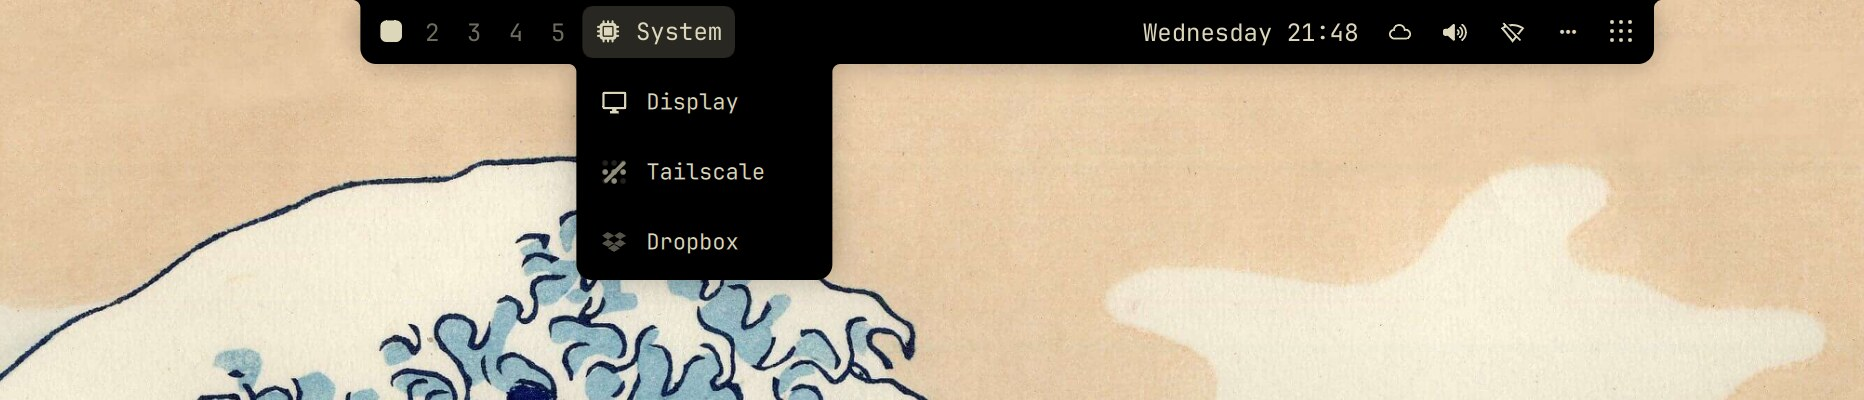
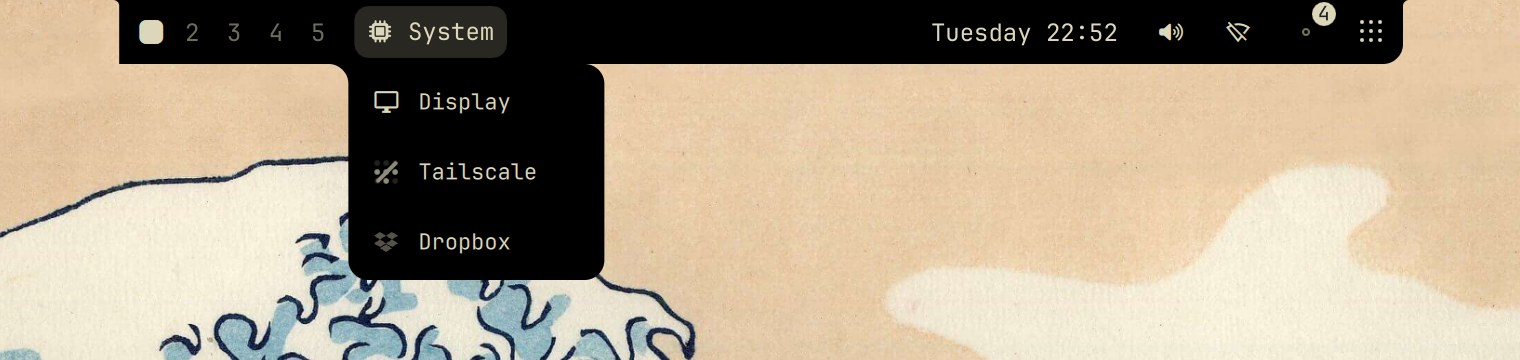
README: new hero and gallery for the current look
The hero is a card in the style the user picked: words and features on
the left, the bar with a shelf open in front of the Preferences Layout
page on the right. The gallery is retaken: shelf, menu with a submenu,
keyboard search, notch, and the Layout and Look pages. render.sh loses
its --wall mode, which only made the old nord hero's wallpaper.

diff --git a/tools/showcase/card.html b/tools/showcase/card.html
@@ -1,61 +1,165 @@
 <!doctype html>
 <!-- Powerbar's README hero and plugin preview, rendered by render.sh (headless
-     Chromium, 1200x675 at 2x: 16:9, the marketplace's card shape). A field
-     drawn from the nord theme's own colours holds one untouched capture,
-     screenshots/hero-nord.jpg: a 1920x1080 box at scale 2.5 whose background
-     is this same field (render.sh --wall), so the desktop continues it.
-     Everything that matters stays inside the screen; card crops between
-     about 1.5:1 and 2.4:1 only take field. -->
+     Chromium, 1200x675 at 2x: 16:9, the marketplace's card shape). Words on
+     the left, two untouched captures on the right: screenshots/hero-prefs.jpg
+     (Preferences, Layout page, catppuccin-latte) tilted behind
+     screenshots/hero-bar.jpg (the bar on tokyo-night with the right zone's
+     shelf open). Catalogue cards crop the picture to between about 1.5:1 and
+     2.4:1, so what matters stays inside 95..1105 x 88..588. -->
 <html lang="en">
 <head>
 <meta charset="utf-8">
 <title>Powerbar card</title>
 <style>
   :root {
-    --background: #2e3440;
-    --darker: #191c23;
-    --accent: #81a1c1;
-    --cyan: #88c0d0;
-    --magenta: #b48ead;
-    --ink: #2e3440;
-    --ink-soft: #3b4252;
-    --sans: "Adwaita Sans", "Inter", system-ui, sans-serif;
+    --night: #0c0d18;
+    --violet: #8b7cf6;
+    --lilac: #c9bcff;
+    --teal: #4fd1c5;
+    --lime: #b5e86b;
+    --amber: #f2b15b;
+    --ink: #eceaf6;
+    --ink-soft: #9a98b3;
+    --mono: "JetBrainsMono Nerd Font", "JetBrains Mono", monospace;
   }
   * { box-sizing: border-box; margin: 0 }
-  html, body { width: 1200px; height: 675px; overflow: hidden; background: var(--accent) }
-  body { position: relative; font-family: var(--sans); color: var(--ink) }
+  html, body { width: 1200px; height: 675px; overflow: hidden; background: var(--night) }
+  body { position: relative; font-family: var(--mono); color: var(--ink) }
+
   .field {
     position: absolute; inset: 0;
     background:
-      radial-gradient(ellipse 55% 65% at 84% 96%, color-mix(in srgb, var(--magenta) 70%, transparent), transparent 70%),
-      radial-gradient(ellipse 60% 70% at 10% 0%, color-mix(in srgb, var(--cyan) 85%, transparent), transparent 72%),
-      linear-gradient(150deg, var(--cyan) 0%, var(--accent) 48%, color-mix(in srgb, var(--accent) 70%, var(--background)) 100%);
+      radial-gradient(ellipse 48% 60% at 6% 4%, rgba(118, 94, 230, 0.42), transparent 70%),
+      radial-gradient(ellipse 45% 55% at 96% 98%, rgba(48, 170, 170, 0.30), transparent 70%),
+      radial-gradient(ellipse 40% 45% at 72% 30%, rgba(118, 94, 230, 0.16), transparent 70%),
+      var(--night);
   }
-  /* The box's screen: 880x495 at 160,90 (render.sh --wall crops this
-     rectangle as the box background). */
-  .screen {
-    position: absolute; left: 160px; top: 90px; width: 880px; height: 495px;
-    border-radius: 14px; overflow: hidden;
-    box-shadow: 0 0 0 1px color-mix(in srgb, var(--darker) 30%, transparent),
-                0 24px 60px -18px color-mix(in srgb, var(--darker) 55%, transparent);
+  .grid {
+    position: absolute; inset: 0; opacity: 0.5;
+    background-image:
+      linear-gradient(rgba(255, 255, 255, 0.035) 1px, transparent 1px),
+      linear-gradient(90deg, rgba(255, 255, 255, 0.035) 1px, transparent 1px);
+    background-size: 32px 32px;
+    mask-image: radial-gradient(ellipse 80% 80% at 50% 45%, black 30%, transparent 80%);
   }
-  .shot { display: block; width: 100%; height: 100% }
-  .words {
-    position: absolute; left: 600px; top: 383px; width: 600px;
-    transform: translate(-50%, -50%); text-align: center;
+  .trails { position: absolute; left: 0; top: 0; width: 1200px; height: 675px }
+
+  .words { position: absolute; left: 100px; top: 96px; width: 540px }
+  .brand { display: flex; align-items: center; gap: 22px }
+  .tile {
+    width: 74px; height: 74px; border-radius: 18px; flex: none;
+    display: grid; place-items: center;
+    background: linear-gradient(160deg, rgba(139, 124, 246, 0.38), rgba(60, 50, 140, 0.25));
+    box-shadow: inset 0 0 0 1.5px rgba(201, 188, 255, 0.55), 0 0 34px rgba(139, 124, 246, 0.35);
   }
-  h1 { font-size: 72px; font-weight: 700; letter-spacing: -0.03em; line-height: 1 }
-  p { margin-top: 14px; font-size: 19px; font-weight: 500; line-height: 1.32; text-wrap: balance; color: var(--ink-soft) }
-  body.wall .screen, body.wall .words { display: none }
+  h1 {
+    font-size: 86px; font-weight: 700; letter-spacing: -0.04em; line-height: 1;
+    background: linear-gradient(100deg, #ffffff 10%, var(--lilac) 70%, #a99bff);
+    -webkit-background-clip: text; background-clip: text; color: transparent;
+  }
+  .tagline { margin-top: 26px; font-size: 27px; font-weight: 700; letter-spacing: -0.01em }
+  .tagline em { font-style: normal; color: var(--violet) }
+  .sub { margin-top: 10px; font-size: 14.5px; color: var(--ink-soft) }
+
+  .features { margin-top: 30px; display: grid; gap: 13px }
+  .feature { display: flex; align-items: center; gap: 15px; font-size: 16.5px }
+  .badge {
+    width: 34px; height: 34px; border-radius: 9px; flex: none; display: grid; place-items: center;
+    background: color-mix(in srgb, var(--c) 14%, transparent);
+    box-shadow: inset 0 0 0 1px color-mix(in srgb, var(--c) 45%, transparent);
+  }
+  .badge svg { width: 18px; height: 18px; stroke: var(--c); fill: none; stroke-width: 1.8; stroke-linecap: round; stroke-linejoin: round }
+
+  .install {
+    position: absolute; left: 100px; top: 532px;
+    padding: 12px 20px; border-radius: 12px; font-size: 14px;
+    background: rgba(255, 255, 255, 0.035);
+    box-shadow: inset 0 0 0 1px rgba(255, 255, 255, 0.09);
+    color: var(--ink);
+  }
+  .install .prompt { color: var(--lime); margin-right: 10px }
+  .install .url { color: #a3b4ff }
+
+  .shot { position: absolute; display: block; border-radius: 12px; overflow: hidden }
+  .shot img { display: block; width: 100%; height: 100% }
+  .prefs {
+    left: 612px; top: 150px; width: 500px; height: 234px;
+    transform: perspective(1400px) rotateY(-16deg) rotateZ(-3deg);
+    transform-origin: right center;
+    box-shadow: 0 30px 70px -20px rgba(0, 0, 0, 0.7), 0 0 0 1px rgba(255, 255, 255, 0.10);
+    opacity: 0.94;
+  }
+  .bar {
+    left: 600px; top: 424px; width: 500px; height: 71px;
+    box-shadow: 0 0 0 1.5px rgba(139, 124, 246, 0.75), 0 0 40px rgba(139, 124, 246, 0.35),
+                0 30px 80px -20px rgba(0, 0, 0, 0.8);
+  }
+  .label {
+    position: absolute; font-size: 11px; letter-spacing: 0.14em; color: var(--ink-soft);
+  }
 </style>
 </head>
 <body>
   <div class="field"></div>
-  <div class="screen"><img class="shot" src="../../screenshots/hero-nord.jpg" alt=""></div>
+  <div class="grid"></div>
+  <svg class="trails" viewBox="0 0 1200 675" aria-hidden="true">
+    <defs>
+      <filter id="glow" x="-10%" y="-50%" width="120%" height="200%"><feGaussianBlur stdDeviation="3"/></filter>
+      <linearGradient id="fade" x1="0" x2="1">
+        <stop offset="0" stop-color="white" stop-opacity="0"/><stop offset="0.25" stop-color="white"/>
+        <stop offset="0.8" stop-color="white"/><stop offset="1" stop-color="white" stop-opacity="0"/>
+      </linearGradient>
+      <mask id="ends"><rect width="1200" height="675" fill="url(#fade)"/></mask>
+    </defs>
+    <g mask="url(#ends)" fill="none" stroke-linecap="round">
+      <g filter="url(#glow)" opacity="0.7">
+        <path d="M0 620 C 220 560, 380 650, 600 600 S 960 540, 1200 590" stroke="#4fd1c5" stroke-width="4"/>
+        <path d="M0 640 C 260 600, 420 560, 640 615 S 980 650, 1200 600" stroke="#8b7cf6" stroke-width="4"/>
+      </g>
+      <path d="M0 620 C 220 560, 380 650, 600 600 S 960 540, 1200 590" stroke="#7fe3d9" stroke-width="1.4"/>
+      <path d="M0 640 C 260 600, 420 560, 640 615 S 980 650, 1200 600" stroke="#b9afff" stroke-width="1.4"/>
+      <path d="M0 652 C 300 630, 500 610, 760 640 S 1040 620, 1200 632" stroke="#b5e86b" stroke-width="1" opacity="0.6"/>
+    </g>
+  </svg>
+
   <div class="words">
-    <h1>Powerbar</h1>
-    <p>A replacement bar for Omarchy with drawers, in-bar expansion, notch support, configurable visibility, a sophisticated keyboard mode, autohide and a polished Preferences window.</p>
+    <div class="brand">
+      <div class="tile">
+        <!-- A bar with a shelf hanging from its middle. -->
+        <svg width="46" height="46" viewBox="0 0 46 46" aria-hidden="true">
+          <defs><linearGradient id="mark" x1="0" y1="0" x2="1" y2="1"><stop offset="0" stop-color="#ffffff"/><stop offset="1" stop-color="#c9bcff"/></linearGradient></defs>
+          <path fill="url(#mark)" d="M9.5 12 H36.5 A4.5 4.5 0 0 1 36.5 21 H34.5 A3.5 3.5 0 0 0 31 24.5 V29 A4 4 0 0 1 27 33 H19 A4 4 0 0 1 15 29 V24.5 A3.5 3.5 0 0 0 11.5 21 H9.5 A4.5 4.5 0 0 1 9.5 12 Z"/>
+          <g fill="#3b2f8a"><circle cx="10.5" cy="16.5" r="1.5"/><circle cx="15" cy="16.5" r="1.5"/><circle cx="35.5" cy="16.5" r="1.5"/>
+          <circle cx="19.5" cy="27.5" r="1.5" opacity="0.7"/><circle cx="23" cy="27.5" r="1.5" opacity="0.7"/><circle cx="26.5" cy="27.5" r="1.5" opacity="0.7"/></g>
+        </svg>
+      </div>
+      <h1>Powerbar</h1>
+    </div>
+    <p class="tagline"><em>Omarchy's</em> bar, rebuilt.</p>
+    <p class="sub">Looks like the bar you have, until you ask for more.</p>
+    <div class="features">
+      <div class="feature" style="--c: var(--teal)">
+        <span class="badge"><svg viewBox="0 0 24 24"><rect x="3" y="4" width="18" height="5" rx="1.5"/><path d="M12 9v6a2 2 0 0 0 2 2h5a2 2 0 0 0 2-2V9"/></svg></span>
+        Drawers, shelves and menus for the rest
+      </div>
+      <div class="feature" style="--c: var(--violet)">
+        <span class="badge"><svg viewBox="0 0 24 24"><rect x="3" y="6" width="18" height="12" rx="2"/><path d="M7 10h1M11 10h1M15 10h2M7 14h10"/></svg></span>
+        Walk, search and drag it by keyboard
+      </div>
+      <div class="feature" style="--c: var(--lime)">
+        <span class="badge"><svg viewBox="0 0 24 24"><path d="M3 5h6c0 2 1.5 3 3 3s3-1 3-3h6"/><rect x="3" y="12" width="7" height="5" rx="1.5"/><rect x="14" y="12" width="7" height="5" rx="1.5"/></svg></span>
+        Islands, floating, flat, or round the notch
+      </div>
+      <div class="feature" style="--c: var(--amber)">
+        <span class="badge"><svg viewBox="0 0 24 24"><path d="M4 7l8-3 8 3-8 3z"/><path d="M4 12l8 3 8-3"/><path d="M4 17l8 3 8-3"/></svg></span>
+        Preferences that lay out your whole bar
+      </div>
+    </div>
   </div>
-  <script>if (location.hash === "#wall") document.body.classList.add("wall")</script>
+
+  <div class="install"><span class="prompt">$</span>omarchy plugin add <span class="url">github.com/overp0werj0int/powerbar</span></div>
+
+  <div class="shot prefs"><img src="../../screenshots/hero-prefs.jpg" alt=""></div>
+  <div class="shot bar"><img src="../../screenshots/hero-bar.jpg" alt=""></div>
 </body>
 </html>

diff --git a/tools/showcase/seed.py b/tools/showcase/seed.py
@@ -1,7 +1,8 @@
 #!/usr/bin/env python3
 # seed.py SHELL_JSON [KEY=JSON ...]: the showcase bar for README captures, of
 # stock Omarchy widgets only (a box shows other plugins as placeholders, and
-# the captures stay free of anyone's own setup). KEY=JSON sets bar keys.
+# the captures stay free of anyone's own setup), in today's five zones (left,
+# centerBegin, center, centerEnd, right). KEY=JSON sets bar keys.
 import json, os, sys
 p = sys.argv[1]; cfg = json.load(open(p)); bar = cfg.setdefault('bar', {})
 n = [0]
@@ -12,20 +13,25 @@ def w(i, vis=None):
 left = [w('omarchy.workspaces'), w('omarchy.monitor'), w('omarchy.tailscale'), w('omarchy.dropbox'),
         w('omarchy.system-update'), w('omarchy.indicators')]
 center = [w('omarchy.clock')]
-right = [w('omarchy.weather'), w('omarchy.elsewhen', 'managed'), w('omarchy.media', 'managed'), w('omarchy.tray', 'managed'),
-         w('omarchy.wifiqr', 'managed'), w('omarchy.speedtest', 'managed'),
-         w('omarchy.audio'), w('omarchy.microphone'), w('omarchy.bluetooth'), w('omarchy.network'), w('omarchy.keyboard-layout'), w('omarchy.power')]
-I = {e['id']: e['powerbarInstance'] for e in left + center + right}
-bar['layout'] = {'left': left, 'center': center, 'right': right}
+centerEnd = [w('omarchy.weather')]
+right = [w('omarchy.elsewhen', 'managed'), w('omarchy.media', 'managed'), w('omarchy.tray', 'managed'),
+         w('omarchy.agents', 'managed'), w('omarchy.bluetooth', 'managed'), w('omarchy.keyboard-layout', 'managed'),
+         w('omarchy.audio'), w('omarchy.microphone'), w('omarchy.network'), w('omarchy.power')]
+I = {e['id']: e['powerbarInstance'] for e in left + center + centerEnd + right}
+bar['layout'] = {'left': left, 'centerBegin': [], 'center': center, 'centerEnd': centerEnd, 'right': right}
 bar['powerbarGroups'] = [
  {'id': 'g-show-system', 'label': 'System', 'icon': '', 'section': 'left', 'before': I['omarchy.system-update'], 'visibility': 'shown',
   'face': 'both', 'tooltip': False, 'badge': True, 'badgeMode': 'sum', 'memberDisplay': 'both',
   'items': [I['omarchy.monitor'], I['omarchy.tailscale'], I['omarchy.dropbox']]},
- {'id': 'g-show-audio', 'label': 'Audio', 'icon': '', 'section': 'right', 'before': I['omarchy.bluetooth'], 'visibility': 'shown',
+ {'id': 'g-show-audio', 'label': 'Audio', 'icon': '', 'section': 'right', 'before': I['omarchy.network'], 'visibility': 'shown',
   'face': 'icon', 'badge': True, 'badgeMode': 'sum', 'memberDisplay': 'native',
-  'items': [I['omarchy.audio'], I['omarchy.microphone']]}]
-bar.update({'id': 'p0werj0int.powerbar', 'position': 'top', 'centerAnchor': 'omarchy.clock', 'powerbarAutoHide': False,
-            'powerbarStyle': 'islands', 'powerbarLargeBar': True, 'powerbarOnDemand': 'drawer', 'powerbarZones': 'three'})
+  'items': [I['omarchy.audio'], I['omarchy.microphone']]},
+ {'id': 'g-show-extras', 'label': 'Extras', 'icon': '\uf12e', 'section': 'right', 'before': I['omarchy.audio'], 'visibility': 'managed',
+  'face': 'glyph', 'badge': False, 'memberDisplay': 'both',
+  'items': [I['omarchy.agents'], I['omarchy.bluetooth'], I['omarchy.keyboard-layout']]}]
+for k in ('centerAnchor', 'powerbarZones', 'powerbarFiveZones', 'powerbarZoneLayouts'): bar.pop(k, None)
+bar.update({'id': 'p0werj0int.powerbar', 'position': 'top', 'powerbarAutoHide': False,
+            'powerbarStyle': 'islands', 'powerbarLargeBar': True, 'powerbarOnDemand': 'drawer'})
 for kv in sys.argv[2:]:
     k, v = kv.split('=', 1)
     try: v = json.loads(v)

diff --git a/DEVELOPMENT.md b/DEVELOPMENT.md
@@ -119,33 +119,57 @@ omabox for desktop tests in a private Hyprland session
 `screenshots/` holds the README gallery, real captures only. `preview.jpg`
 (the README hero and the plugin's preview) is `tools/showcase/card.html`
 rendered by `tools/showcase/render.sh` (headless Chromium, 1200x675 at 2x:
-16:9, the marketplace card's shape). The page is a gradient of the nord
-theme's own colours with one capture laid in as a screen,
-`screenshots/hero-nord.jpg`: a 1920x1080 box at scale 2.5 on nord, a layout
-of stock Omarchy widgets, keyboard mode inside the System group (keysOn,
-Left, Down, Down). The box's background is the same gradient under the
-screen, from `render.sh --wall OUT.png` and `omarchy-theme-bg-set`. Keep
-what matters inside the screen: catalogue cards crop the picture to between
-about 1.5:1 and 2.4:1, which takes only gradient. Re-run render.sh after
-replacing the capture.
+16:9, the marketplace card's shape). The card is words on the left and two
+untouched captures on the right, both from one box set up like the gallery
+below with `powerbarOnDemand` "shelf", `powerbarStyle` "islands",
+`shape.rounding 12`, `shape.scope all` and `tuning false`:
 
-The gallery shots are wide, readable captures from one omabox box
-(`omabox up gal --theme NAME --env POWERBAR_DISPLAY_CUTOUTS=/home/sbx/cutouts.json`),
-with the plugin copied into the box HOME, `omarchy bar use p0werj0int.powerbar`
-and `tools/showcase/seed.py` writing a bar of stock widgets. Set the screen
-per shot with `omabox -b gal hyprctl eval 'hl.monitor({ output = "HEADLESS-2",
-mode = "2400x275@60", position = "0x0", scale = 2.5 })'`; do that again after a
-`omarchy-theme-set`, which resets it. Keep shots wide (the key strip needs
-about 240 logical px of height) and only Preferences tall:
+- `screenshots/hero-bar.jpg`: tokyo-night over a plain violet-to-teal
+  gradient (`magick -size 2400x1500 gradient:'#5b4fa8'-'#2f7f8f'`, then
+  `omarchy-theme-bg-set`, so the islands stand out), a 1700x600 screen at
+  scale 2.5, `managed right` for the shelf, cropped to the top 1700x240.
+- `screenshots/hero-prefs.jpg`: catppuccin-latte, a 2560x1600 screen at
+  scale 2, `preferencesPage 1`, cropped to 2560x1200+0+74.
+
+Keep what matters inside 95..1105 x 88..588 of the page: catalogue cards
+crop the picture to between about 1.5:1 and 2.4:1. Re-run render.sh after
+replacing a capture.
+
+The gallery shots are wide, readable captures from one omabox box:
+`omabox up gal --stock-bar --theme NAME --env POWERBAR_DISPLAY_CUTOUTS=/home/sbx/cutouts.json`
+(`--stock-bar`, or the box starts from your own bar and its settings), the
+plugin copied into the box HOME (rsync as `tools/box/box.sh` does),
+`omarchy bar use p0werj0int.powerbar`, the `bar` object emptied, then
+`tools/showcase/seed.py` writing a bar of stock widgets in the five zones and a
+restart of the shell. The box has no network, so Weather draws nothing, and
+Bluetooth, Keyboard layout and Power draw nothing on the bar (no devices); in
+a drawer or menu they still have their icons. Stock themes have square, bordered
+bars (Hyprland's rounding 0), which hide the shelf's fillets, so round the bar
+in Powerbar's own settings, for every theme:
+`set shape.scope all`, `set shape.rounding 12`, `set shape.borders false`,
+`set shadow.scope all`, `set shadow.enabled false` (a shadow draws a seam
+across a shelf's join). Set the screen per shot with
+`omabox -b gal hyprctl eval 'hl.monitor({ output = "HEADLESS-2", mode = "2400x300@60", position = "0x0", scale = 2.5 })'`;
+do that again after every `omarchy-theme-set`, which resets it. Commands below
+are `omabox run -b gal -- omarchy-shell powerbar ...`; `keys` is
+`omabox -b gal keys --wait`. Keep shots wide (the key strip needs about 240
+logical px of height) and only Preferences tall:
 
 | Shot | Theme, mode | State |
 | --- | --- | --- |
-| `drawer-latte.jpg` | catppuccin-latte, 2400x275 at 2.5 | floating; `powerbar managed right` |
-| `search-tokyo-night.jpg` | tokyo-night, 2400x600 at 2.5 | flat; `keysSearch`, type `tail` |
-| `notch-kanagawa.jpg` | kanagawa, 3024x1964 at 2, `shot -g 290,0,932,200` | `set style notch`; `group g-show-system`. `cutouts.json`: `{"panels":[{"connector":"HEADLESS","width":3024,"height":1964,"top":64}]}` |
-| `preferences.jpg` | osaka-jade, 2560x1600 at 2 | islands; `preferencesPage 1` |
+| `shelf-latte.jpg` | catppuccin-latte, 2400x300 at 2.5 | islands; `set onDemand shelf`; `managed right` |
+| `menu-gruvbox.jpg` | gruvbox, 2400x700 at 2.5 | islands; `set onDemand menu`; `managed right`; keys `down` x4 (cursor on Extras), `Return` |
+| `search-tokyo-night.jpg` | tokyo-night, 2400x600 at 2.5 | flat; `set onDemand drawer`; `keysSearch`, keys `-t tail` |
+| `notch-kanagawa.jpg` | kanagawa, 3024x1964 at 2, `shot -g "400,0 760,180"` | `set style notch`; after setting the mode, `OMABOX_READY_TIMEOUT=2s omabox restart-shell -b gal` (the theme switch restarted the shell on the old mode, and it finds no notch); `group g-show-system`. `cutouts.json` in the box HOME: `{"panels":[{"connector":"HEADLESS-2","width":3024,"height":1964,"top":64}]}` |
+| `layout-jade-horse.jpg` | jade-horse, 2880x1500 at 2 | islands; `set onDemand drawer`; `preferencesPage 1` |
+| `look-catppuccin.jpg` | catppuccin, 2880x1400 at 2 | islands; `preferencesPage 3` |
 
-Park the pointer where it hovers nothing. JPEG at quality 88.
+Preferences needs 1440 logical px of width, or the desk strips cut their
+labels short ("Background opa…"). osaka-jade has no colours or wallpaper in
+Omarchy r7569 (a bare `backgrounds/` folder), so the Layout page moved to
+jade-horse. Park the pointer where it hovers nothing
+(`omabox pointer -b gal -- move 300 115`) and shoot with `--no-pointer`. JPEG
+at quality 88.
 
 ## Skills
 

diff --git a/README.md b/README.md
@@ -6,7 +6,7 @@
 [![Hyprland](https://img.shields.io/badge/Hyprland-Wayland-58e1ff?style=flat-square&logo=hyprland&logoColor=white)](https://hypr.land)
 [![License: MIT](https://img.shields.io/badge/License-MIT-6aa84f?style=flat-square)](LICENSE)
 
-![Powerbar on the nord theme over a gradient of its colours: keyboard mode inside the System group, its name and the key strip](preview.jpg)
+![Powerbar: the bar on tokyo-night with the right zone's shelf open, in front of the Preferences Layout page](preview.jpg)
 
 </div>
 
@@ -115,17 +115,23 @@ whose original copyright and MIT license notice are preserved in
 Each is one untouched capture of Powerbar on a stock Omarchy theme and its
 own wallpaper. The themes and wallpapers are Omarchy's (MIT).
 
-<p><img src="screenshots/drawer-latte.jpg" alt="A floating bar on catppuccin-latte with the right zone's On demand widgets open in a drawer below it"><br>
-<sub><b>Floating</b>, catppuccin-latte: On demand widgets in their zone's drawer</sub></p>
+<p><img src="screenshots/shelf-latte.jpg" alt="Islands on catppuccin-latte; the right island's On demand widgets (System tray, Elsewhen, Media and the Extras group) on a shelf that grows out of the island's underside as one surface, with curved joins"><br>
+<sub><b>On a shelf</b>, catppuccin-latte: the right zone's On demand widgets come out of its island as one surface</sub></p>
 
-<p><img src="screenshots/search-tokyo-night.jpg" alt="A flat bar on tokyo-night; typing tail in the keyboard mode's search opens the System group with the cursor on Tailscale"><br>
+<p><img src="screenshots/menu-gruvbox.jpg" alt="Islands on gruvbox in menu mode; the right zone's dots open a menu of its On demand widgets, and the Extras group row opens a submenu of Agents, Bluetooth and Keyboard layout beside it"><br>
+<sub><b>Menu</b>, gruvbox: the right zone's dots open a menu, and a group in it opens a submenu</sub></p>
+
+<p><img src="screenshots/search-tokyo-night.jpg" alt="A flat bar on tokyo-night; typing tail in the keyboard mode's search opens the System group with the cursor on Tailscale, and the indicators are revealed for the keys"><br>
 <sub><b>Flat</b>, tokyo-night: <code>/tail</code> opens the System group at Tailscale, with the key strip below</sub></p>
 
-<p><img src="screenshots/notch-kanagawa.jpg" alt="The Notch style on kanagawa: two black ears grow out of a MacBook's camera, a group's menu slides down from the bar"><br>
-<sub><b>Notch</b>, kanagawa, on a 14-inch MacBook screen: the zones grow out of the camera and a group slides down from it</sub></p>
+<p><img src="screenshots/notch-kanagawa.jpg" alt="The Notch style on kanagawa: the zones form one black band around a MacBook's camera, and the System group's menu hangs flush from the left ear with curved joins"><br>
+<sub><b>Notch</b>, kanagawa, on a 14-inch MacBook screen: the zones grow out of the camera and a group hangs from its ear</sub></p>
 
-<p><img src="screenshots/preferences.jpg" alt="Preferences, Layout page on osaka-jade: the bar as shelves (On the bar, On demand, Hidden) and the selected widget's settings"><br>
-<sub><b>Preferences</b>, osaka-jade: the Layout page, with the keys for what has focus along the bottom</sub></p>
+<p><img src="screenshots/layout-jade-horse.jpg" alt="Preferences, Layout page on jade-horse: the bar's layers (On the bar, On demand, Hidden, In the tray) as plates tilted back, each split into the five zones with its widgets as tiles"><br>
+<sub><b>Preferences</b>, jade-horse: the Layout page, each layer a tilted plate of the five zones, with the keys along the bottom</sub></p>
+
+<p><img src="screenshots/look-catppuccin.jpg" alt="Preferences, Look page on catppuccin: a desk of strips for Style, Size, Shape, Surface and Shadow, with radio rows, scope chips, switches and faders"><br>
+<sub><b>Preferences</b>, catppuccin: the Look page, a desk of strips with faders and pick rows</sub></p>
 
 ## Install
 

diff --git a/CHANGELOG.md b/CHANGELOG.md
@@ -2,6 +2,7 @@
 
 ## Unreleased
 
+- The README's hero and screenshots show the current look: the bar with a shelf open in front of the Preferences Layout page, and a new gallery.
 - A widget's card no longer stays on the bar after the pointer has left. Crossing a widget quickly (to another zone and back, or off the screen) could leave its card showing until another card came and went. A card now draws only once it is really up (LOOK-154).
 - On the notch, a zone's menu now hangs flush with the end of its ear nearest the dots, and it and the ear are drawn as one surface. The ear's corner goes square where the menu is flush with it or runs past it, and where the ear runs on, the menu curves into it with the ear's own radius. Before, the menu hung from under the dots with small fixed shoulders whatever the ear did: a step where it ran past the ear's rounded end, and a nub where it almost lined up with it (ZONE-88).
 - On demand has a fourth display, On a shelf (`powerbarOnDemand: "shelf"`). It works as In a drawer does, but the drawer is no longer a separate island floating under the bar. It comes out of the bar as one surface with it, in the bar's colours, with reverse-rounded corners where it joins and the bar's corner squared where it runs flush or past the bar's end, and it slides out of the bar as the notch's drawers do. It is a separate option so its look can be tuned on its own (DEMAND-120 to DEMAND-125).
